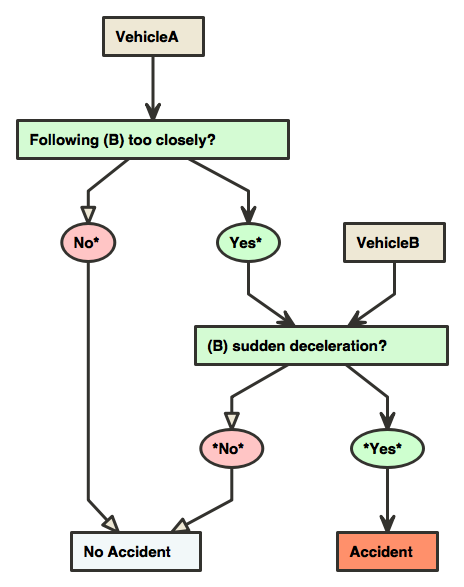
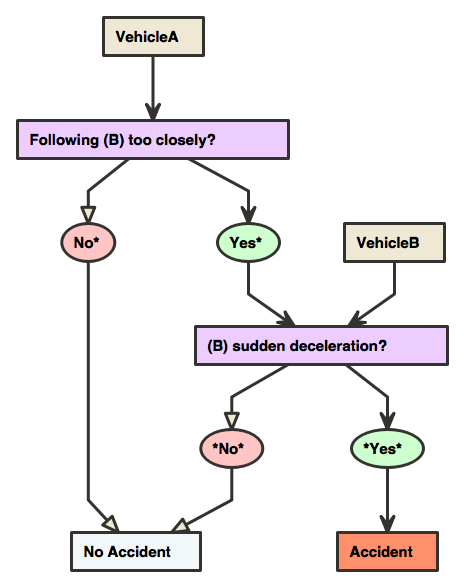
Quick save...

Changed region(s): [[0.0302, 0.184, 0.6336, 0.276], [0.4224, 0.552, 0.9655, 0.644]]

diff --git a/styles.js b/styles.js
@@ -8,7 +8,7 @@ const x = {
   `,
   accident: '#.accident: fill=#ff906b bold',
   ignore: '#.ignore: fill=#f2f8f9 bold',
-  condition: '#.condition: fill=#d4fbd3 bold',
+  condition: '#.condition: fill=#edcdff bold',
   yes: '#.yes: fill=#ceffcf visual=ellipse bold',
   no: '#.no: fill=#ffc5c5 visual=ellipse bold',
 };
